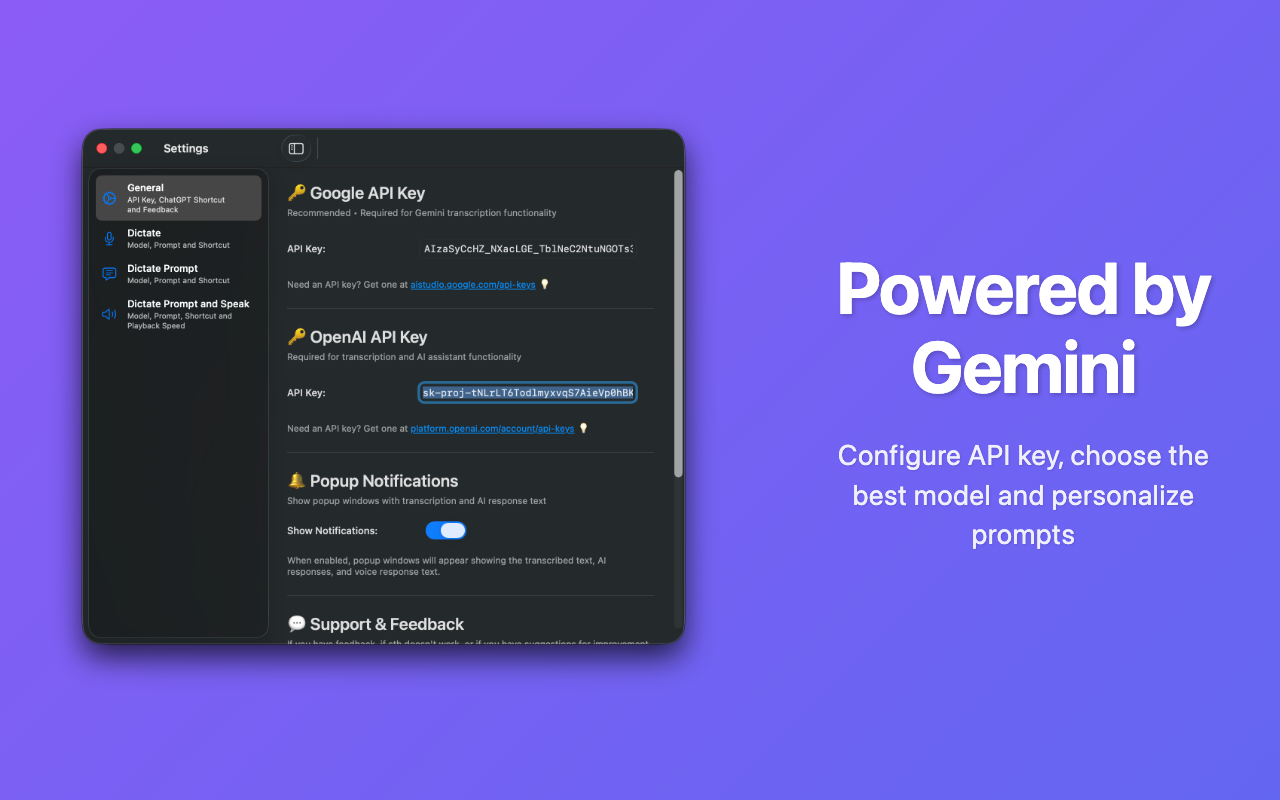
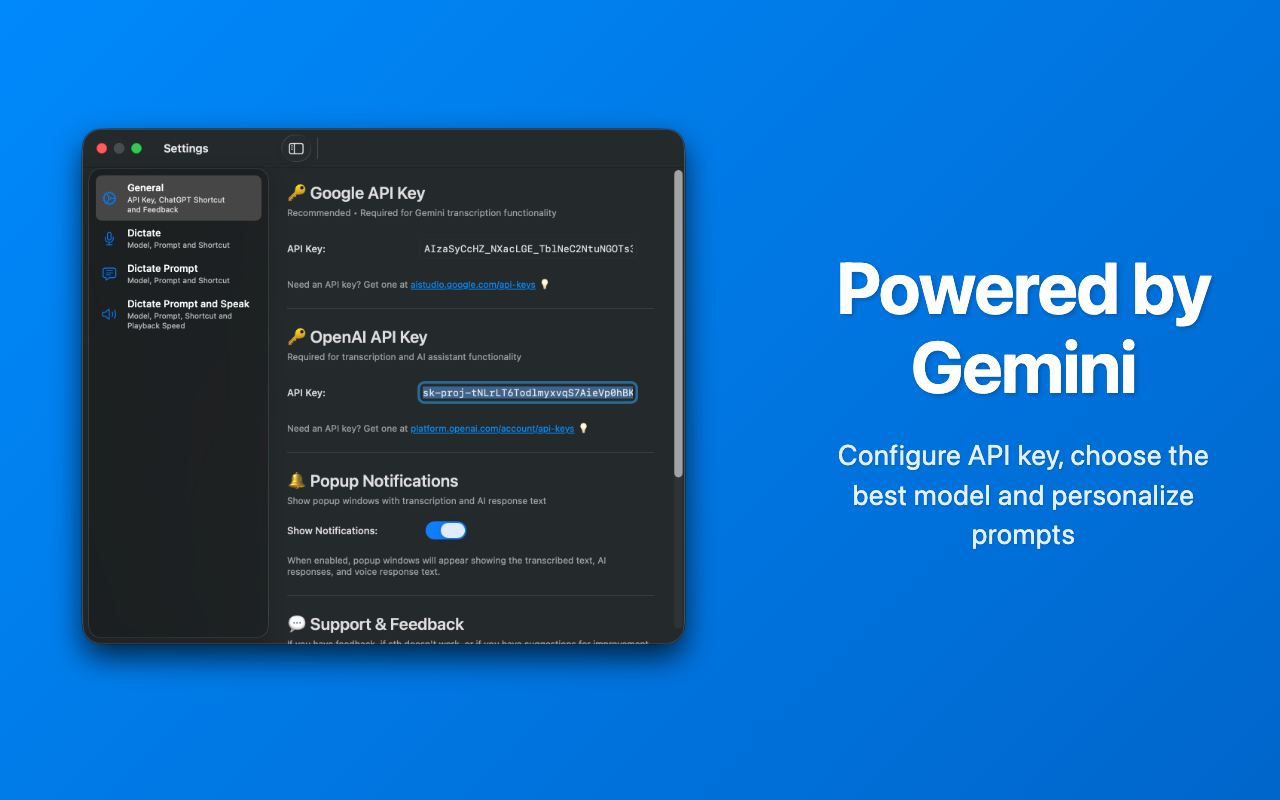
Update background gradient in powered-by-gemini.html and refresh associated screenshot
This commit modifies the background gradient in the powered-by-gemini.html file to a new color scheme, enhancing the visual appeal. Additionally, the corresponding screenshot has been updated to reflect these changes, ensuring consistency between the HTML and visual representation.

diff --git a/screenshots/html/powered-by-gemini.html b/screenshots/html/powered-by-gemini.html
@@ -13,7 +13,7 @@
         }
 
         body {
-            background: linear-gradient(135deg, #8b5cf6 0%, #6366f1 100%);
+            background: linear-gradient(135deg, #0089fb 0%, #0066cc 100%);
             color: #ffffff;
             font-family: -apple-system, BlinkMacSystemFont, 'Segoe UI', Roboto, sans-serif;
             display: flex;
